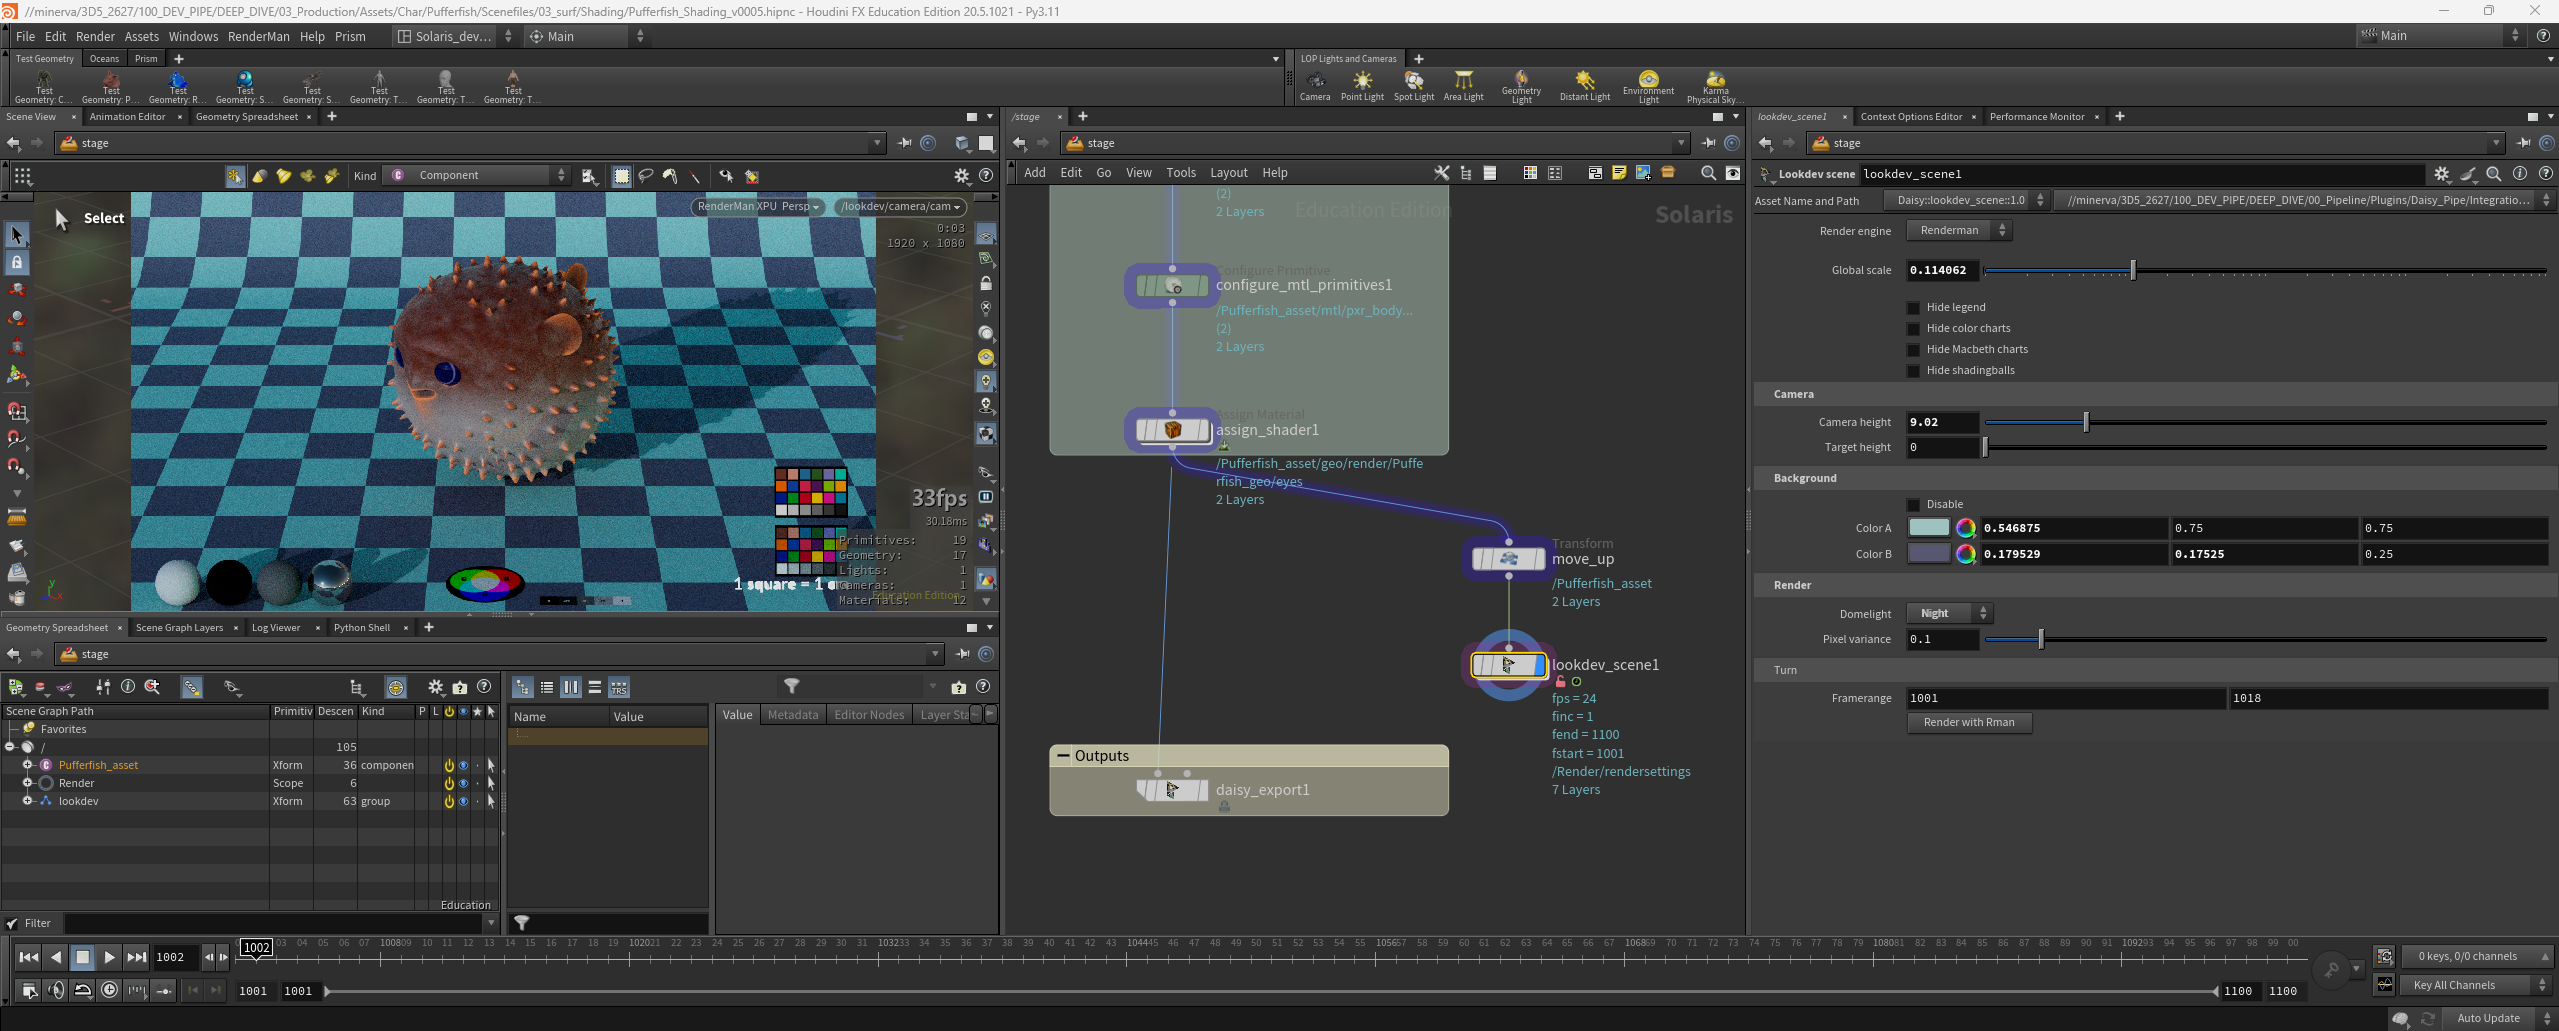
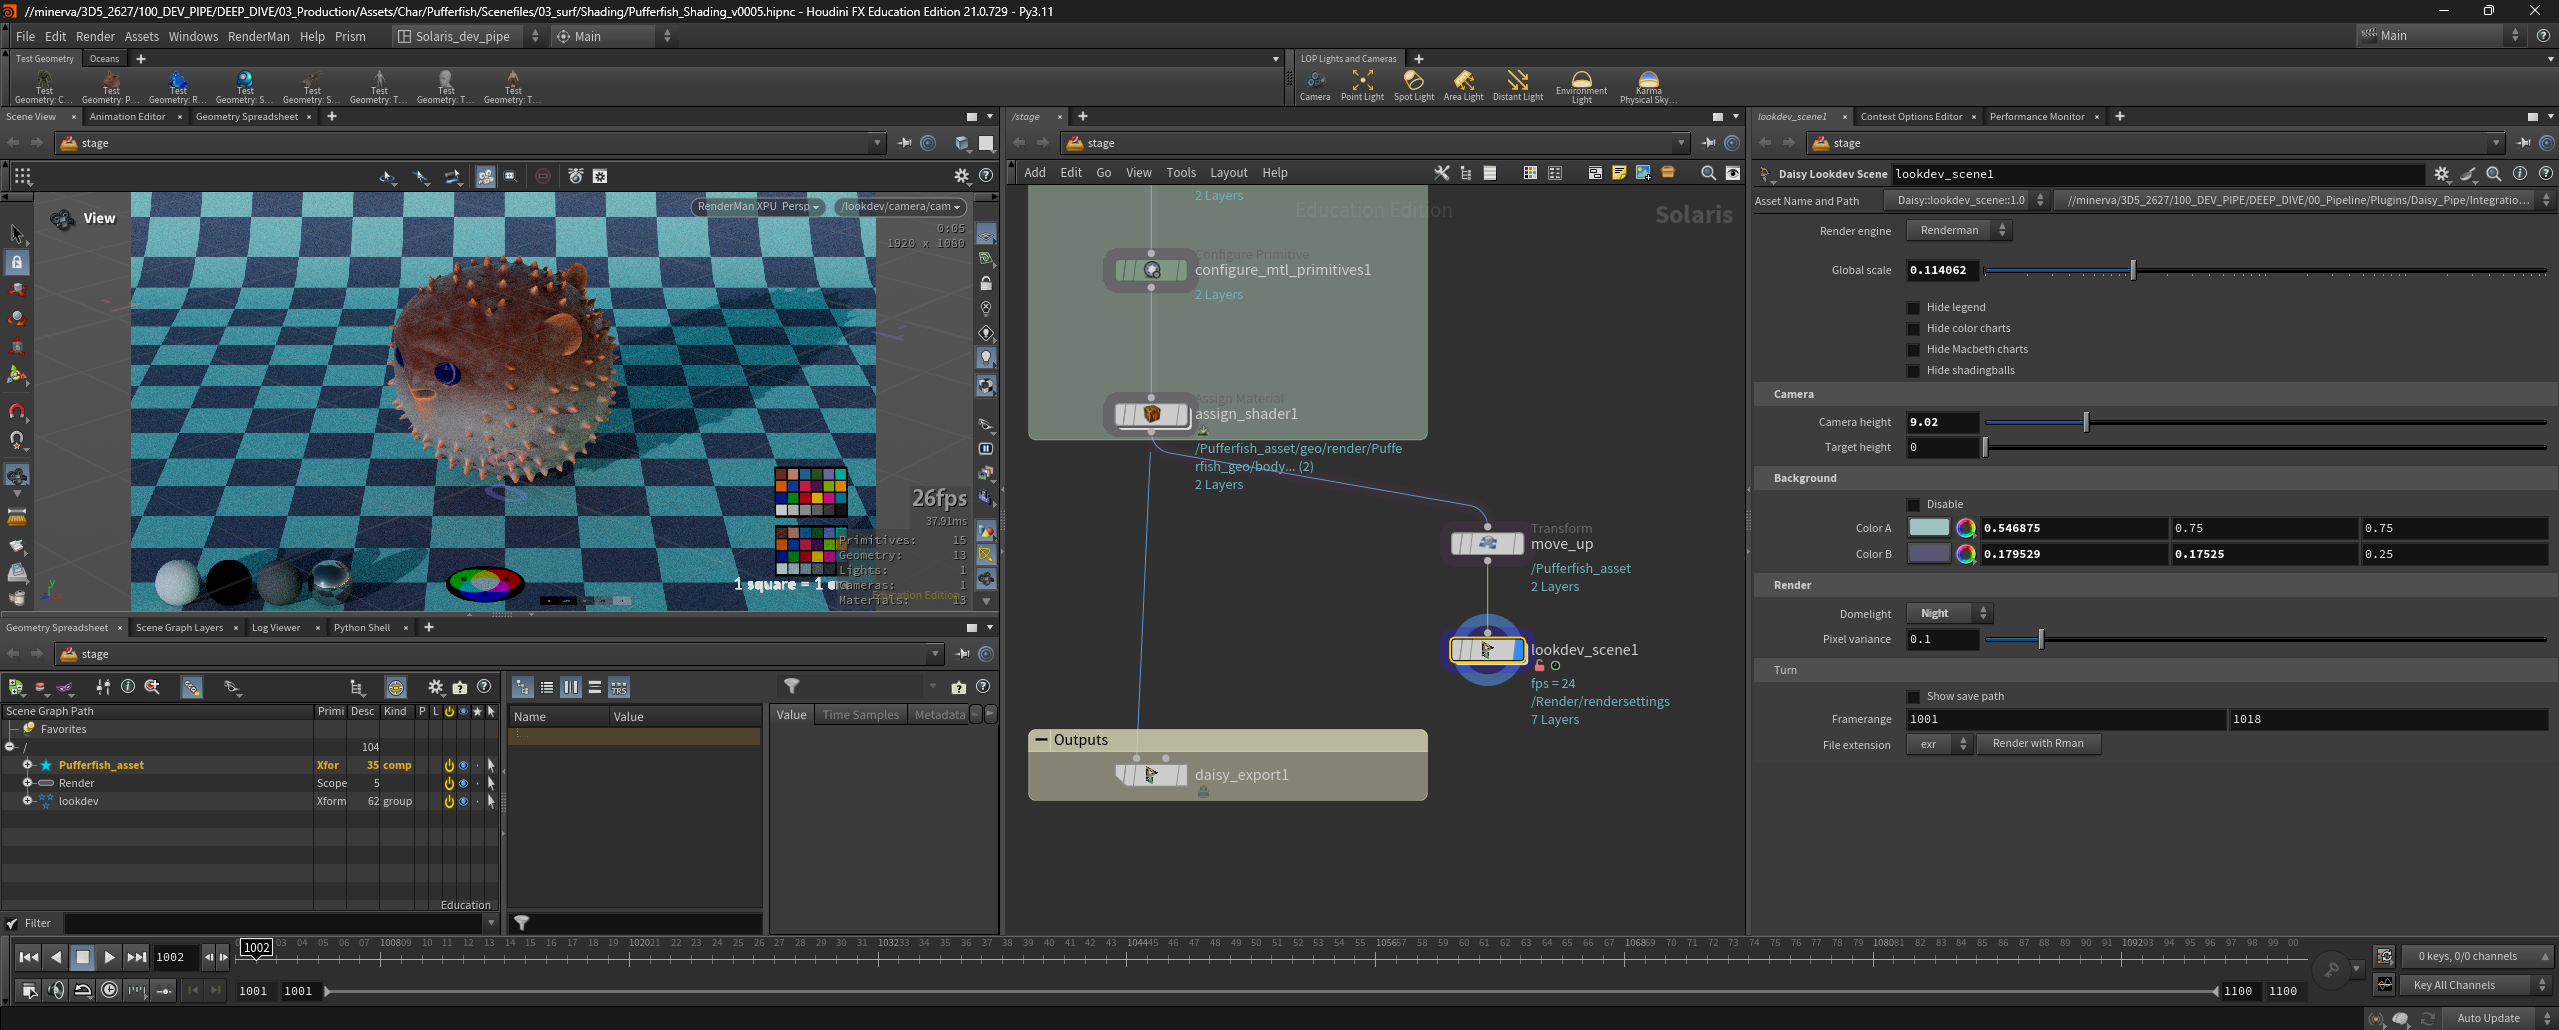
write the set dress page, write the beginning of USD one modify the shading and modeling pages setup the templates page

diff --git a/docs/overview/usd.md b/docs/overview/usd.md
@@ -1,9 +1,13 @@
 # USD
 [< page précédente](../overview.md)<br>
-Bienvenue dans une partie importante de cette documentation : la compréhension de l'USD et certains de ses concepts. Je sais que c'est un gros morceau un peu flou. Dans un premier temps il est possible que vous ne compreniez pas tout, mais à force d'utilisation et de manipulations vous finirez par vous en sortir ne vous en faites pas.<br>
+Bienvenue dans une partie importante de cette documentation : la compréhension de l'USD et de certains de ses concepts. Je sais que c'est un gros morceau un peu flou. Dans un premier temps il est possible que vous ne compreniez pas tout, mais à force d'utilisation et de manipulations vous finirez par vous en sortir ne vous en faites pas.<br>
 Cette page n'est pas une présentation exhaustive des concepts de l'USD qui sont beaucoup trop nombreux pour rentrer dans une seule page. C'est pourquoi je vous met ici [la documentation officielle](https://openusd.org/release/index.html) qui sera plus détaillée, anisi qu'un [glossaire des concepts liés à l'USD](https://openusd.org/release/glossary.html).
 
-<a href="https://developer.apple.com/videos/play/wwdc2022/10129/" target="blank">Lien vers une vidéo de présentation de l'USD</a>
+<a href="https://youtu.be/SaBXE4yQetk?si=AtESIyEA6WNDqib4" target="blank">Lien vers une vidéo de présentation de l'USD</a><br>
+<a href="https://developer.apple.com/videos/play/wwdc2022/10129/" target="blank">Lien vers une autre vidéo</a>
+
+><img src="../src/warning_yellow.png" width=50em><br>
+>À savoir que cette documentation a été rédigé pour vulgariser au maximum l'USD, elle contient donc certaines approximations. De plus l'USD étant un sujet dense et complexe, il est également possible que nous commettions des erreurs dans certaines définitions.
 
 Voici un petit sommaire pour naviguer plus facilement sur cette page :
 
@@ -14,19 +18,45 @@ Voici un petit sommaire pour naviguer plus facilement sur cette page :
     - [Name et path](#name-et-path)
     - [Type](#type)
     - [Kind](#kind)
+    - [Attributes et Primvars](#attributes-et-primvars)
 - [Proxy](#proxy)
 - [Payload](#payload)
 - [Variant](#variant)
 
+***
+
 ## Présentation générale
 Maintenant que tout cela est dit, passon aux présentations.<br>
-***À suivre***
+L'USD (Universal Scene Description) est une manière de décrir une scène 3D. Créé par Pixar et rendu open source en 2016, l'USD se développe dans de plus en plus de studio. Ce format de fichier a été créé pour permettre un travail **collaboratif** et **non destructif**.
+
+Le format USD est aussi pris en charge par la majorité des logiciels de 3D et des moteurs de rendu, d'où son caractère universel. Ceci devient très pratique pour faire un film, un jeu ou n'importe quelle autre production 3D à grande échelle.<br>
+***À suivre ...***
+
+***
 
 ## Layer
+Les layers sont les différents fichiers USD du pipe, ils permettent à plusieurs artistes de travailler sur un même asset en même temps.<br>
+*Par exemple : Je veux travailler sur les roues d'une voiture pendant que la personne à côté de moi travail sur sa carosserie. Chacun d'entre nous va travailler sur un layer différent et nos 2 layers seront ensuite combinés dans un 3<sup>ème</sup> layer qui sera notre voiture finie.*
+
+![layers scheme](src/usd/layers_schematic.png)
+
+C'est le même principe que les références dans Maya : on assemble plusieurs fichiers .ma en référence dans un plus grand fichier qui va tout contenir. La différence ici c'est que contrairement au système de Maya, on peut faire autant de couches de référence qu'on veut. Une référence, dans une référence, dans une référence, dans une référence ... C'est référenceception.
+
+***
 
 ## Asset
+L'asset USD est justement un layer qui va rassembler les différents éléments qui le composent. Dans l'exemple du dessus, l'asset sera la voiture finale.<br>
+Dans notre pipeline, les assets USD rassemblent la geo, le groom et les materials. Ils permettent aussi d'ajouter des fonctionnalités spécifiques comme les variants, les payloads ... Plein de choses dont on reparlera plus bas.<br>
+Les différents assets sont bien souvent de type "component" (vous verrez ce que ça veut dire après) et sont rassemblés par la suite dans des scènes pour créer les shots.
+
+***
 
 ## Primitive
+En USD on peut dire que **tout est primitive**. Une primitive est le plus petit composant de l'USD, un objet est une primitive, un material est une primitive, une caméra, une light, un groupe, même un paramètre de rendu est une primitive.<br>
+Bien souvent les primitives contiennent d'autres primitives pour former la hiérarchie de la scène.
+
+tout ça c'est des primitives :
+![primitive hierarchy](src/usd/primitive_hierarchy.png)
 
 ### Name et path
 
@@ -34,9 +64,17 @@ Maintenant que tout cela est dit, passon aux présentations.<br>
 
 ### Kind
 
+### Attributes et Primvars
+
+***
+
 ## Proxy
 
+***
+
 ## Payload
+
+***
 
 ## Variant
 

diff --git a/docs/daisy_pipe/departments/set_dress.md b/docs/daisy_pipe/departments/set_dress.md
@@ -1,8 +1,61 @@
 # Set Dress
 [< page précédente](../departments.md)<br>
-Maintenant que nos assets sont créés, il est temps de les mettre tous ensemble dans une scène. C'est tout l'intérêt du set dress. Dans ce département nous allons utiliser Houdini pour assembler le décor de notre séquence. Alors, comment faire ?
+Maintenant que nos assets sont créés, il est temps de les mettre tous ensemble dans une scène. C'est tout l'intérêt du set dress. Dans ce département nous allons utiliser Houdini pour assembler le décor de notre séquence. Alors, comment faire ? Voici un petit sommaire ...
+
+- [Création du template](#création-du-template)
+- [Présentation du template](#présentation-du-template)
+- [Utilisation du template](#utilisation-du-template)
+
+><img src="../../src/warning_red.png" width=50em><br>
+>Avant de commencer, assurez-vous bien d'avoir fait au moins un create USD asset pour chaque asset que vous voulez importer. Sinon les scripts ne fonctionneront pas.
+
+***
+
+## Création du template
 
 Pour commencer, ouvrons Prism. Nous allons créer une nouvelle séquence en allant dans "**Shots**", en faisant un **click droit** et en choisissant "**Create Shot...**". Choisissez le nom de la séquence (**sous la forme "sq\<nombre\>" comme par exemple : "sq010"**) et écrivez "MASTER" dans le nom du shot. **C'est très important d'utiliser exactement le nom "MASTER"** pour que les scripts de Daisy Pipe puissent détecter que nous travaillons dans la séquence complète et pas dans un shot.
+
+![prism create shot](src/setdress/prism_create_shot.png)
+![prism create shot popup](src/setdress/prism_create_shot_popup.png)
+
+><img src="../../src/information.png" width=50em><br>
+>Si vous avez oublié d'écrire "MASTER", pas de panique, Daisy pipe renomme automatiquement le premier shot en "MASTER". Par contre **pensez bien à nommer vos séquences avec le bon nombre de zéros et la bonne convention de nommage**.
+
+Une fois que vous avez créé votre shot, félicitation, le film est terminé.<br>
+Non, c'était un prank. Il faut maintenant créer la task "SetDress" dans le département du même nom. Créez une nouvelle scène Houdini, rentrez dedans et créez le template avec le node "Daisy Create Template".
+
+La fenêtre "**Asset Browser**" s'ouvre, elle vous sert à sélectionner les éléments que vous voulez ajouter à votre set dress. Pour les sélectionner, faites un **drag and drop** des assets que vous voulez de la colonne de gauche vers la colonne de droite. Une fois que vous êtes satisfait de votre sélection, clickez sur "**Validate**" pour créer le template.
+
+![houdini asset browser](src/setdress/houdini_asset_browser.png)
+
+***
+
+## Présentation du template
+
+Voici à quoi ressemble le template pour le set dress. Le votre pourrait être légèrement différent mais devrait quand même ressembler à ça :
+
+![houdini template](src/setdress/houdini_template.png)
+
+Il est important de noter que certains nodes sont de la mêm couleur que leur backdrop, ça veut dire que vous n'avez pas besoin d'y toucher à moins de savoir parfaitement ce que vous faites. Maintenant que cela est dit, comment se décompose le template ?<br>
+1. **Le backdrop "Inputs"** vous retrouverez tous les nodes relatifs à l'import et au placement de chaque asset, sa taille dépendra du nombre d'asset que vous importerez.
+    - reference : permet d'importer l'asset en référence
+    - set variant : si vous avez plusieurs variants de geo ou de groom, vous pouvez choisir ici sur lequel travailler
+    - scale down : permet d'abaisser la taille de l'asset s'il vient de Maya
+2. **Le backdrop "Outputs"** qui sert à exporter votre set dress en USD
+    - daisy export : permet d'exporter le set dress en usd
+3. **Le backdrop "Toolbox"** répertorie des nodes qui pourraient vous être utils.
+
+Pour plus d'informations sur ce template, **[clickez ici](../houdini/templates.md/#template-de-setdress)**.
+
+***
+
+## Utilisation du template
+
+De manière générale, **vous travaillerez entre le node "graft_set_dress1" et le node "daisy_export1"**, là où il y a un grand espace. N'hésitez pas non plus à utiliser les nodes du backdrop toolbox.
+
+Si vous devez dupliquer des objets plusieurs fois, n'hésitez pas à utiliser **les nodes d'instance** comme le "**copy to point**", l'"**instancer**" ou le "**point instancer**". Ces nodes rendront votre scène BEAUCOUP plus légère alors ils sont importants en cas de scattering d'objets.
+
+![houdini final result](src/setdress/houdini_final_result.png)
 
 [< page précédente](../departments.md) - 
 [page suivante >](layout.md)<br>

diff --git a/docs/daisy_pipe/departments/shading.md b/docs/daisy_pipe/departments/shading.md
@@ -7,6 +7,9 @@ Ok, Maintenant que nous avons un asset texturé, il est temps de lui créer un s
 - [Création des shaders](#création-des-shaders)
 - [Scène de lookdev](#scène-de-lookdev)
 
+><img src="../../src/warning_red.png" width=50em><br>
+>Avant de commencer, assurez-vous bien d'avoir fait un premier **[Create USD Asset](../prism.md/#create-usd-asset)** pour que le template reconnaisse bien la geo.
+
 ***
 
 ## Création du template
@@ -32,6 +35,9 @@ Votre node est créé, dans les parameters vous avez un bouton "create template"
 
 Avant de modifier le template il est important de savoir que si un node est de la même couleur que son backdrop, il vaut mieux éviter d'y toucher. Notons également qu'il y a un backdrop en haut à gauche nommé "Toolbox", c'est un répertoir de nodes qui pourraient vous être utils (ou pas), à vous d'explorer et les tester. Maintenant passons en revue les nodes qui composent le template.
 
+><img src="../../src/information.png" width=50em><br>
+>Si vous avez utilisé le plugin de Daisy Pipe pour Substance Painter et que vous avez bien exporté vos textures, les shaders seront créés automatiquement et les textures connectées au shader. Il ne vous restera plus qu'à assigner chaque material aux primitives de votre asset et à ajouster les paramètres de vos shaders. Vous êtes libres d'en faire ce que vous voulez.
+
 ***
 
 ## Présentation du template
@@ -46,12 +52,17 @@ Avant de modifier le template il est important de savoir que si un node est de l
     - assign shader : permet d'assigner chaque shader à la bonne primitive
 3. **Le backdrop "Outputs"** qui sert à exporter votre shading en USD
     - daisy export : permet d'exporter les shaders en usd
+4. **Le backdrop "Toolbox"** répertorie des nodes qui pourraient vous être utils.
+
+Pour plus d'informations sur ce template, **[clickez ici](../houdini/templates.md/#template-de-shading)**.
 
 ***
 
 ## Création des shaders
 Maintenant que nous avons fait les présentations, passons à la pratique. Il est temps de créer nos shaders. Pour cela nous allons utiliser notre asset "pufferfish". Rentrez dans le node "**create shader**" en double clickant dessus.
 
+
+><img src="../../src/information.png" width=50em><br>
 > Petit tip, vous pouvez passer de la vue "proxy" à la vue "render" en clickant sur les lunettes à droite du viewport.<br>
 >![switch proxy render](src/shading/switch_proxy_render.png)
 
@@ -98,11 +109,11 @@ Ce node vous crée automatiquement une scène complète pour voir votre shading.
 - le type de domelight : Studio, Day, Night et Custom (où vous pouvez mettre un HDR custom, changer la couleur et l'intensité de la light)
 - le pixel variance pour gérer les samples
 - le framerange du turn
+- l'extension des fichiers de sortie
 
+><img src="../../src/warning_yellow.png" width=50em><br>
 > Sachez que le turn se fait en 2 parties égales, une fois avec l'asset qui tourne et une fois avec la light qui tourne.<br>
 > Vous ne pourrez pas changer la durée de chaque partie, seulement la durée global
-
-> Si le turn ne se met pas à jour, n'hésitez pas à modifier le framerange et le remettre pour le refresh
 
 ![houdini lookdev scene node](src/shading/lookdev_scene.png)
 
@@ -111,6 +122,10 @@ Pour lancer le turn clickez sur le bouton "Render with Rman" (ou Karma), ce qui 
 Le turn est ensuite stocké dans Prism sous forme d'une séquence d'images dans les playblasts de votre asset.
 
 ![houdini lookdev scene node](src/shading/prism_turn_result.png)
+
+><img src="../../src/warning_yellow.png" width=50em><br>
+>Une fois que vous avez fait votre export une première fois, pensez bien à faire un **[Create USD Asset](../prism.md/#create-usd-asset)** pour appliquer le shading à votre asset USD.
+
 ![houdini lookdev scene node](src/shading/turn_pufferfish.gif)
 
 [< page précédente](../departments.md) - 

diff --git a/docs/daisy_pipe/departments/modeling.md b/docs/daisy_pipe/departments/modeling.md
@@ -93,6 +93,9 @@ Puis **allez sur le node "daisy export"** et clickez sur "**save to disk**". Voi
 Finalement, comme pour Maya : maintenant que nous avons fini notre ModL, il est temps de passer à la ModH. On peut créer un nouveau fichier de ModH à partir de la modL ?<br>
 Rendez-vous dans le **Project Browser** (la fenêtre Prism) à l'intérieur d'Houdini, mais gardez bien votre scène ouverte. Puis **allez dans la task ModH** et faites un **click droit dans "Files"** sélectionnez "**Create new version from current**". Votre scène est maintenant dupliquée dans ModH, pous pouvez travailler dessus et recommencer le processus d'export.
 
+><img src="../../src/warning_yellow.png" width=50em><br>
+>Une fois que vous avez fait tous vos exports une première fois (ModH et ModL), pensez bien à faire un **[Create USD Asset](../prism.md/#create-usd-asset)**, ça vous sera essentiel pour la suite de la prod.
+
 ><img src="../../src/warning_red.png" width=50em><br>
 > Important : chers modelers, ayez une petite pensée pour vos collègues, et pensez bien avant vos exports à faire vos UVs mais aussi à mettre des presets de materials sur vos geo (standard surface, lambert, blin ...). Cela facilitera le travail des texture artists et des riggeurs.<br>
 > Pensez aussi à donner un nom à vos geo avec l'attribute "name". Histoire d'hygiène.

diff --git a/docs/daisy_pipe/houdini/templates.md b/docs/daisy_pipe/houdini/templates.md
@@ -1,7 +1,14 @@
 # Templates
 [< page précédente](../houdini.md)
 
-### En cours d'écriture ...
+Cette page a pour but de définir chaque template et son fonctionnement de manière exhaustive.<br>
+**En cours d'écriture**
+
+## Template général d'asset
+## Template de Shading
+## Template de SetDress
+## Template de Layout MASTER
+## Template de Layout
 
 [< page précédente](../houdini.md) - 
 [page suivante >](hda.md)<br>
